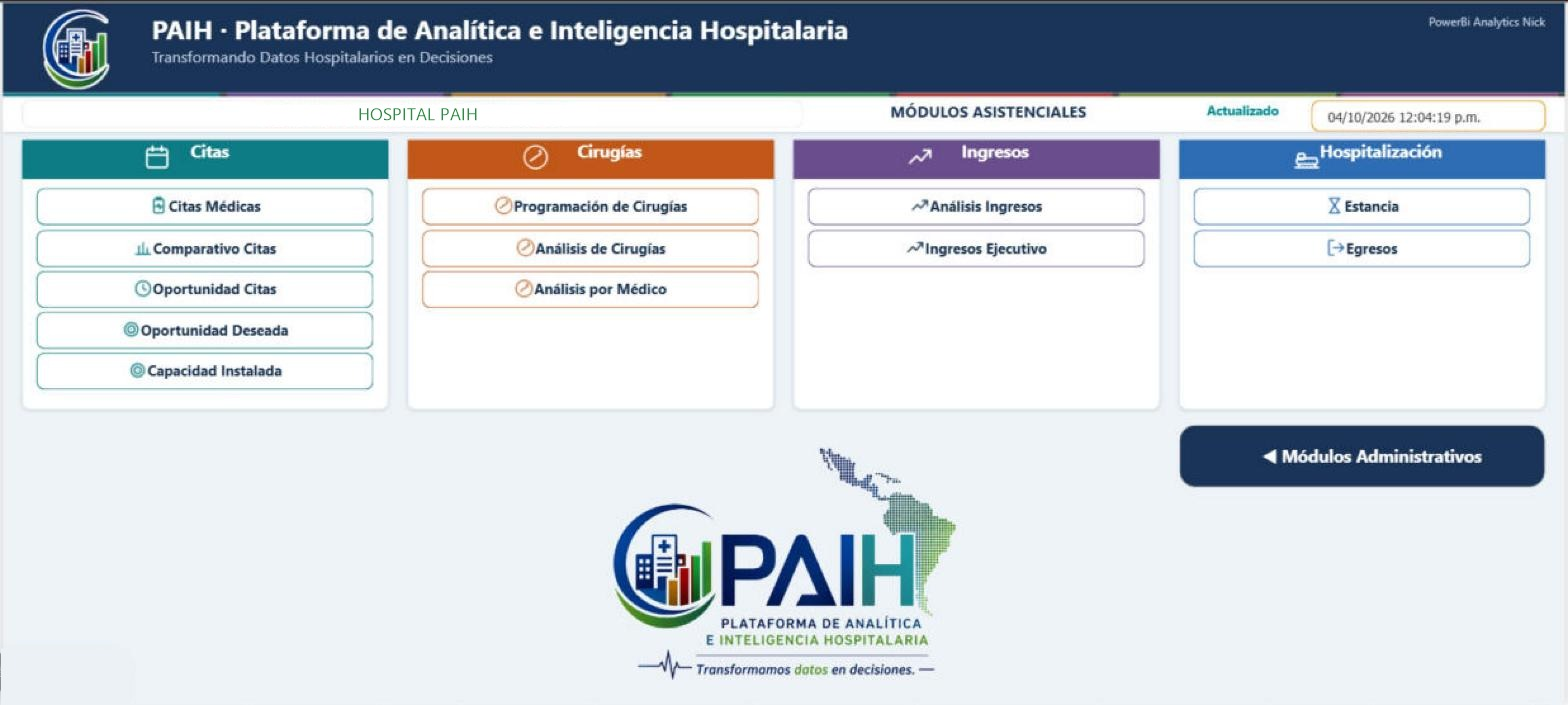
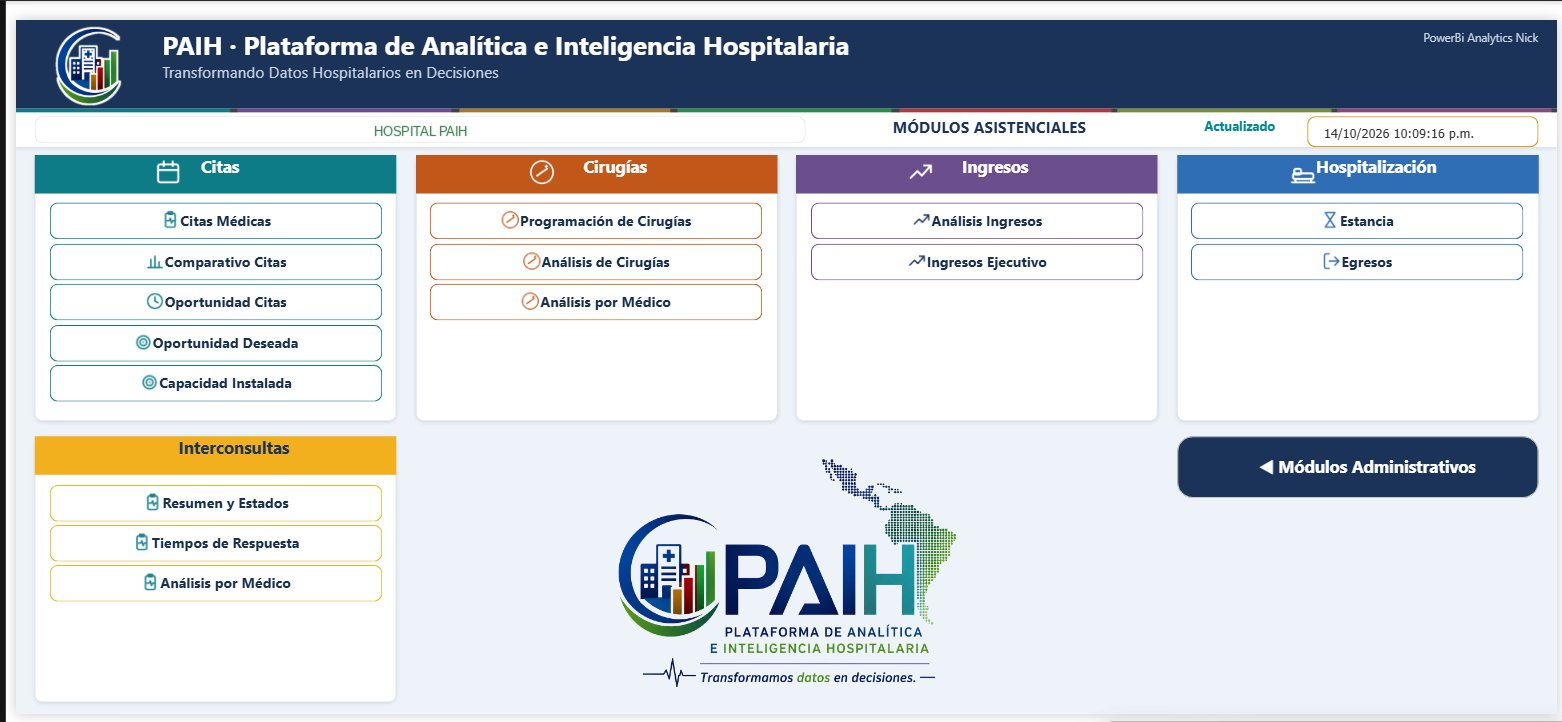
Nuevo módulo Interconsultas (3 lienzos) y 2 lienzos en pesos en Producción; menú asistencial actualizado
Claude-Session: https://claude.ai/code/session_01LZsR8SjRkSgseW9VD2TX7D

diff --git a/index.html b/index.html
@@ -366,6 +366,9 @@
   .lienzo-card--cartera .lienzo-head{background:#7A8C3E;}
   .lienzo-card--cartera .chip{background:rgba(122,140,62,0.11);color:#7A8C3E;}
   .lienzo-card--cartera .lienzo-item:hover{background:rgba(122,140,62,0.07);}
+  .lienzo-card--interconsultas .lienzo-head{background:#E0A21A;}
+  .lienzo-card--interconsultas .chip{background:rgba(224,162,26,0.14);color:#A87508;}
+  .lienzo-card--interconsultas .lienzo-item:hover{background:rgba(224,162,26,0.09);}
   .lienzo-card--produccion .lienzo-head{background:#B8426A;}
   .lienzo-card--produccion .chip{background:rgba(184,66,106,0.11);color:#B8426A;}
   .lienzo-card--produccion .lienzo-item:hover{background:rgba(184,66,106,0.07);}
@@ -660,7 +663,7 @@
       <div class="section-head">
         <span class="eyebrow">Suite PAIH</span>
         <h2>Un lienzo para cada decisión</h2>
-        <p>Once módulos activos y 37 lienzos de análisis, agrupados en módulos asistenciales y administrativos, cada uno enfocado en un proceso crítico de la operación hospitalaria — con menú unificado y tooltips explicativos en los gráficos.</p>
+        <p>Doce módulos activos y 42 lienzos de análisis, agrupados en módulos asistenciales y administrativos, cada uno enfocado en un proceso crítico de la operación hospitalaria — con menú unificado y tooltips explicativos en los gráficos.</p>
       </div>
 
       <div class="stories-bar" id="storiesBar"></div>
@@ -673,7 +676,7 @@
           <div class="nov-body">
             <span class="nov-tag">Nuevo</span>
             <h3>Menú dividido: asistencial y administrativo</h3>
-            <p>11 módulos y 37 lienzos en dos menús — 12 asistenciales y 25 administrativos — con un botón para pasar de uno a otro.</p>
+            <p>12 módulos y 42 lienzos en dos menús — 15 asistenciales y 27 administrativos — con un botón para pasar de uno a otro.</p>
             <button class="nov-btn" onclick="openLienzo('menu')">Ver los menús →</button>
           </div>
         </article>
@@ -689,13 +692,24 @@
           </div>
         </article>
         <article class="nov-tile">
+          <button class="nov-media" onclick="openLienzo('interconsultas_resumen')" aria-label="Ver el nuevo módulo de interconsultas">
+            <img src="img/lienzos/interconsultas_resumen.jpg" alt="Lienzo Interconsultas Resumen y Estados" loading="lazy">
+          </button>
+          <div class="nov-body">
+            <span class="nov-tag">Nuevo módulo</span>
+            <h3>Interconsultas: estados, tiempos y médicos</h3>
+            <p>Tres lienzos: cuántas interconsultas se solicitan y se responden, cuánto tarda cada especialidad en responder y qué médicos solicitan y responden.</p>
+            <button class="nov-btn" onclick="openLienzo('interconsultas_resumen')">Ver Interconsultas →</button>
+          </div>
+        </article>
+        <article class="nov-tile">
           <button class="nov-media" onclick="openLienzo('produccion_resumen')" aria-label="Ver el nuevo módulo de producción">
             <img src="img/lienzos/produccion_resumen.jpg" alt="Lienzo Producción Resumen" loading="lazy">
           </button>
           <div class="nov-body">
             <span class="nov-tag">Nuevo módulo</span>
             <h3>Producción por áreas de servicio</h3>
-            <p>Cuatro lienzos: qué se produce, en qué área de servicio, qué servicios y medicamentos lideran, qué queda sin RIPS y el detalle línea por línea.</p>
+            <p>Seis lienzos: qué se produce en unidades y en pesos, en qué área de servicio, qué servicios y medicamentos lideran, qué queda sin RIPS y el detalle línea por línea.</p>
             <button class="nov-btn" onclick="openLienzo('produccion_resumen')">Ver Producción →</button>
           </div>
         </article>
@@ -740,7 +754,7 @@
       <div class="modgroup" id="modulos-asistenciales">
         <div class="modgroup-head">
           <h3>Módulos Asistenciales</h3>
-          <p>Citas, Cirugías, Ingresos y Hospitalización · 12 lienzos</p>
+          <p>Citas, Cirugías, Ingresos, Hospitalización e Interconsultas · 15 lienzos</p>
         </div>
         <div class="lienzo-grid">
 
@@ -876,13 +890,46 @@
           </nav>
         </article>
 
+        <!-- INTERCONSULTAS -->
+        <article class="lienzo-card lienzo-card--interconsultas">
+          <div class="lienzo-head">
+            <span class="lienzo-icon">
+              <svg viewBox="0 0 24 24" fill="none" stroke="currentColor" stroke-width="1.8" stroke-linecap="round" stroke-linejoin="round"><rect x="5" y="4" width="14" height="17" rx="2"/><path d="M9 4V3h6v1"/><path d="M12 10v6M9 13h6"/></svg>
+            </span>
+            <h3>Interconsultas</h3>
+          </div>
+          <nav class="lienzo-list">
+            <button class="lienzo-item" onclick="openLienzo('interconsultas_resumen')">
+              <span class="chip"><svg viewBox="0 0 24 24" fill="none" stroke="currentColor" stroke-width="1.8" stroke-linecap="round" stroke-linejoin="round"><rect x="5" y="4" width="14" height="17" rx="2"/><path d="M9 4V3h6v1"/><path d="M12 10v6M9 13h6"/></svg></span>
+              <span class="lienzo-item-text">
+                <span class="t">Resumen y Estados <span class="new-tag">Nuevo</span></span>
+                <span class="d">Interconsultas solicitadas, con respuesta, cerradas y suspendidas: por estado, prioridad, especialidad, sede y área solicitante.</span>
+              </span>
+            </button>
+            <button class="lienzo-item" onclick="openLienzo('interconsultas_tiempos')">
+              <span class="chip"><svg viewBox="0 0 24 24" fill="none" stroke="currentColor" stroke-width="1.8" stroke-linecap="round" stroke-linejoin="round"><circle cx="12" cy="12" r="9"/><path d="M12 7v5l3 2"/></svg></span>
+              <span class="lienzo-item-text">
+                <span class="t">Tiempos de Respuesta <span class="new-tag">Nuevo</span></span>
+                <span class="d">Horas promedio de respuesta por especialidad, respuestas de más de 48 horas, pendientes y tendencia mensual.</span>
+              </span>
+            </button>
+            <button class="lienzo-item" onclick="openLienzo('interconsultas_medico')">
+              <span class="chip"><svg viewBox="0 0 24 24" fill="none" stroke="currentColor" stroke-width="1.8" stroke-linecap="round" stroke-linejoin="round"><circle cx="12" cy="8" r="4"/><path d="M4 21c0-4 4-6 8-6s8 2 8 6"/></svg></span>
+              <span class="lienzo-item-text">
+                <span class="t">Análisis por Médico <span class="new-tag">Nuevo</span></span>
+                <span class="d">Quién solicita y quién responde: interconsultas, urgentes, % con respuesta y horas de respuesta por médico.</span>
+              </span>
+            </button>
+          </nav>
+        </article>
+
         </div>
       </div>
 
       <div class="modgroup" id="modulos-administrativos">
         <div class="modgroup-head">
           <h3>Módulos Administrativos</h3>
-          <p>Cartera, Radicación, Contratos, Glosas, Facturación, Producción y Pasivo CxP · 25 lienzos</p>
+          <p>Cartera, Radicación, Contratos, Glosas, Facturación, Producción y Pasivo CxP · 27 lienzos</p>
         </div>
         <div class="lienzo-grid">
 
@@ -1074,11 +1121,25 @@
                 <span class="d">Unidades producidas por mes, tipo de ingreso, área de servicio, tipo de servicio y estado de facturación.</span>
               </span>
             </button>
+            <button class="lienzo-item" onclick="openLienzo('produccion_resumen_pesos')">
+              <span class="chip"><svg viewBox="0 0 24 24" fill="none" stroke="currentColor" stroke-width="1.8" stroke-linecap="round" stroke-linejoin="round"><rect x="3" y="7" width="18" height="13" rx="2"/><circle cx="12" cy="13.5" r="3.2"/><path d="M9 7l1.5-3h3L15 7"/></svg></span>
+              <span class="lienzo-item-text">
+                <span class="t">Producción Resumen $ <span class="new-tag">Nuevo</span></span>
+                <span class="d">El mismo resumen de producción expresado en pesos: valor total, con factura y sin factura, por tipo de ingreso, área y tipo de servicio.</span>
+              </span>
+            </button>
             <button class="lienzo-item" onclick="openLienzo('produccion_top10')">
               <span class="chip"><svg viewBox="0 0 24 24" fill="none" stroke="currentColor" stroke-width="1.8" stroke-linecap="round" stroke-linejoin="round"><line x1="7" y1="20" x2="7" y2="10"/><line x1="12" y1="20" x2="12" y2="6"/><line x1="17" y1="20" x2="17" y2="13"/></svg></span>
               <span class="lienzo-item-text">
                 <span class="t">Producción Top 10 <span class="new-tag">Nuevo</span></span>
                 <span class="d">Los 10 servicios IPS y los 10 medicamentos y suministros con más unidades, con valor entidad y paciente.</span>
+              </span>
+            </button>
+            <button class="lienzo-item" onclick="openLienzo('produccion_top10_pesos')">
+              <span class="chip"><svg viewBox="0 0 24 24" fill="none" stroke="currentColor" stroke-width="1.8" stroke-linecap="round" stroke-linejoin="round"><line x1="7" y1="20" x2="7" y2="10"/><line x1="12" y1="20" x2="12" y2="6"/><line x1="17" y1="20" x2="17" y2="13"/></svg></span>
+              <span class="lienzo-item-text">
+                <span class="t">Producción Top 10 $ <span class="new-tag">Nuevo</span></span>
+                <span class="d">Los 10 servicios, medicamentos y áreas de servicio que más valor producen, en pesos.</span>
               </span>
             </button>
             <button class="lienzo-item" onclick="openLienzo('produccion_rips')">
@@ -1421,7 +1482,12 @@
     pasivo_cuenta: {"modulo": "Pasivo CxP", "titulo": "Pasivo por Cuenta Contable", "img": "img/lienzos/pasivo_cuenta.jpg", "isNew": true, "sales": "El pasivo visto por cuenta contable: 31 cuentas con saldo, $93 mil millones vencidos (97,7%) y la cuenta de honorarios con el 30,6% del pasivo ($28.995 millones). Compara sin vencer contra vencido en el Top 10 de cuentas y detalla cada una por rango de edad, con su participación, número de documentos y terceros."},
     pasivo_origen: {"modulo": "Pasivo CxP", "titulo": "Pasivo por Origen / Tipo CxP", "img": "img/lienzos/pasivo_origen.jpg", "isNew": true, "sales": "De dónde viene el pasivo: cuentas por pagar concentra el 90,7% ($85.999 millones), inventarios el 9,3% y activos fijos una fracción mínima. Participación por origen, sin vencer contra vencido y evolución mensual, más una tabla por origen y rango de edad con documentos y terceros."},
     pasivo_anticipos: {"modulo": "Pasivo CxP", "titulo": "Pasivo Anticipos", "img": "img/lienzos/pasivo_anticipos.jpg", "isNew": true, "sales": "Anticipos entregados que aún no se han aplicado frente a lo que se debe: 6 terceros con anticipo y 8 documentos por 2,6 millones, es decir 0,0% del pasivo de 95 mil millones. Compara por tercero lo que se debe, el anticipo y el saldo neto, muestra los anticipos por cuenta contable (avances para viáticos y gastos de viaje) y detalla cada tercero con su % cubierto. Un saldo negativo significa que el anticipo supera la deuda, a favor del hospital."},
-    menu: {"modulo": "Nuevo menú", "titulo": "Menú de navegación PAIH", "img": "img/lienzos/menu_asistenciales.jpg", "alt": {"img": "img/lienzos/menu_administrativos.jpg", "label": "Administrativos", "kind": "view"}, "mainLabel": "Asistenciales", "isNew": true, "sales": "Un solo punto de entrada para todo PAIH, ahora dividido en dos menús: Módulos Asistenciales (Citas, Cirugías, Ingresos y Hospitalización: 12 lienzos) y Módulos Administrativos (Cartera, Radicación, Contratos, Glosas y Facturación: 16 lienzos). Un botón en cada menú permite pasar de uno a otro; cada lienzo tiene su navegación entre lienzos del mismo módulo y su regreso a Inicio, y los gráficos incluyen tooltips (i) con su Objetivo y su Lectura."},
+    interconsultas_resumen: {"modulo": "Interconsultas", "titulo": "Interconsultas Resumen y Estados", "img": "img/lienzos/interconsultas_resumen.jpg", "isNew": true, "sales": "408 interconsultas solicitadas en el mes: 187 con respuesta (45,8%) y 220 cerradas (53,9%), 147 urgentes (36,0%) y una suspendida. Muestra la tendencia mensual y las divide por estado, prioridad, especialidad solicitante y rango de tiempo de respuesta, con el Top 10 de servicios, especialidades, sedes y áreas que más solicitan, y el detalle consecutivo por consecutivo. Respondidas en 24 horas o menos: 77,2%, con un promedio de 17,2 horas."},
+    interconsultas_tiempos: {"modulo": "Interconsultas", "titulo": "Interconsultas Tiempos de Respuesta", "img": "img/lienzos/interconsultas_tiempos.jpg", "isNew": true, "sales": "Cuánto tarda cada especialidad en responder: en el año, 2.858 interconsultas solicitadas, 1.372 con respuesta y 1.476 cerradas, con un promedio de 21,1 horas de respuesta (18,7 en las urgentes) y 73,7% respondidas en 24 horas o menos. Muestra las horas promedio por especialidad, la tendencia mensual, las pendientes, las cerradas, las respuestas de más de 48 horas y el % de suspendidas por especialidad."},
+    interconsultas_medico: {"modulo": "Interconsultas", "titulo": "Interconsultas Análisis por Médico", "img": "img/lienzos/interconsultas_medico.jpg", "isNew": true, "sales": "Quién solicita y quién responde: 408 interconsultas del mes, 28 médicos que responden, 17,2 horas promedio de respuesta y 77,2% respondidas en 24 horas o menos. Ordena a los médicos por interconsultas solicitadas, urgentes, % con respuesta y cerradas, mide las horas promedio de quien responde y detalla cada médico solicitante con sus interconsultas pendientes, respondidas y cerradas."},
+    produccion_resumen_pesos: {"modulo": "Producción", "titulo": "Producción Resumen en pesos ($)", "img": "img/lienzos/produccion_resumen_pesos.jpg", "isNew": true, "sales": "El resumen de producción expresado en pesos: $11.146 millones de valor total estimado en el mes, $11.112 millones con factura y $34 millones sin factura (99,7% facturado). Separa $10.286 millones en servicios, $860 millones en medicamentos y $195 millones en oxígeno, y los abre por tipo de ingreso (urgencias lidera con $7.500 millones), por área de servicio, por tipo de servicio y por estado de facturación."},
+    produccion_top10_pesos: {"modulo": "Producción", "titulo": "Producción Top 10 en pesos ($)", "img": "img/lienzos/produccion_top10_pesos.jpg", "isNew": true, "sales": "Qué genera más valor: los 10 servicios IPS, los 10 medicamentos y suministros y las 10 áreas de servicio con mayor valor en pesos. Hospitalización estancia general lidera las áreas con $1.673 millones y la internación de adultos de complejidad mediana lidera los servicios con $1.515 millones. Arriba, el valor total ($11 mil millones), con factura, sin factura ($751 millones), entidad y paciente."},
+    menu: {"modulo": "Nuevo menú", "titulo": "Menú de navegación PAIH", "img": "img/lienzos/menu_asistenciales.jpg", "alt": {"img": "img/lienzos/menu_administrativos.jpg", "label": "Administrativos", "kind": "view"}, "mainLabel": "Asistenciales", "isNew": true, "sales": "Un solo punto de entrada para todo PAIH, ahora dividido en dos menús: Módulos Asistenciales (Citas, Cirugías, Ingresos, Hospitalización e Interconsultas: 15 lienzos) y Módulos Administrativos (Cartera, Radicación, Contratos, Glosas, Facturación, Producción y Pasivo CxP: 27 lienzos). Un botón en cada menú permite pasar de uno a otro; cada lienzo tiene su navegación entre lienzos del mismo módulo y su regreso a Inicio, y los gráficos incluyen tooltips (i) con su Objetivo y su Lectura."},
   };
 
   let lienzoCur = null;
@@ -1477,9 +1543,16 @@ const MODULES = [
       { img: "img/lienzos/menu_asistenciales.jpg" },
       { img: "img/lienzos/menu_administrativos.jpg" }
     ] },
+    { label: "Interconsultas", color: "#E0A21A", icon: `<svg viewBox="0 0 24 24" fill="none" stroke="currentColor" stroke-width="1.8" stroke-linecap="round" stroke-linejoin="round"><rect x="5" y="4" width="14" height="17" rx="2"/><path d="M9 4V3h6v1"/><path d="M12 10v6M9 13h6"/></svg>`, isNew: true, slides: [
+      { img: "img/lienzos/interconsultas_resumen.jpg" },
+      { img: "img/lienzos/interconsultas_tiempos.jpg" },
+      { img: "img/lienzos/interconsultas_medico.jpg" }
+    ] },
     { label: "Producción", color: "#B8426A", icon: `<svg viewBox="0 0 24 24" fill="none" stroke="currentColor" stroke-width="1.8" stroke-linecap="round" stroke-linejoin="round"><path d="M4 21V10M4 10l4-5 4 3 5-6 3 3"/><path d="M20 5v6h-6"/></svg>`, isNew: true, slides: [
       { img: "img/lienzos/produccion_resumen.jpg" },
+      { img: "img/lienzos/produccion_resumen_pesos.jpg" },
       { img: "img/lienzos/produccion_top10.jpg" },
+      { img: "img/lienzos/produccion_top10_pesos.jpg" },
       { img: "img/lienzos/produccion_rips.jpg" },
       { img: "img/lienzos/produccion_detalle.jpg" }
     ] },

diff --git a/README.md b/README.md
@@ -17,7 +17,7 @@ Este repositorio contiene el sitio web comercial de PAIH: una landing page de un
 
 ## Módulos activos y lienzos
 
-**Módulos Asistenciales** (12 lienzos)
+**Módulos Asistenciales** (15 lienzos)
 
 | Módulo | Lienzos |
 |---|---|
@@ -25,8 +25,9 @@ Este repositorio contiene el sitio web comercial de PAIH: una landing page de un
 | Cirugías | **Programación de Cirugías**, **Análisis de Cirugías**, **Análisis por Médico** |
 | Ingresos | Análisis Ingresos, **Ingresos Ejecutivo** |
 | Hospitalización | Estancia, Egresos |
+| Interconsultas | **Resumen y Estados**, **Tiempos de Respuesta**, **Análisis por Médico** |
 
-**Módulos Administrativos** (25 lienzos)
+**Módulos Administrativos** (27 lienzos)
 
 | Módulo | Lienzos |
 |---|---|
@@ -35,10 +36,10 @@ Este repositorio contiene el sitio web comercial de PAIH: una landing page de un
 | Contratos | Contratos IPS, PBS |
 | Glosas | Semáforo Glosas, Glosas, Trámites Cosecha, Gestión Trámites |
 | Facturación | Facturación, Snapshot Facturación, **Facturación Ejecutiva** |
-| Producción | **Producción Resumen**, **Producción Top 10**, **Producción RIPS**, **Producción Detalle** |
+| Producción | **Producción Resumen**, **Producción Resumen $**, **Producción Top 10**, **Producción Top 10 $**, **Producción RIPS**, **Producción Detalle** |
 | Pasivo CxP | **Pasivo por Edades**, **Pasivo por Tercero / Proveedor**, **Pasivo por Cuenta Contable**, **Pasivo por Origen / Tipo CxP**, **Pasivo Anticipos** |
 
-En total: **11 módulos y 37 lienzos** publicados (en negrita, los más recientes). 23 de ellos incluyen **tooltips explicativos (i)**: cada gráfico indica su Objetivo y cómo hacer su Lectura. La estructura sigue el menú del reporte, dividido en *Módulos Asistenciales* y *Módulos Administrativos*, cada uno con un botón para pasar al otro.
+En total: **12 módulos y 42 lienzos** publicados (en negrita, los más recientes). 23 de ellos incluyen **tooltips explicativos (i)**: cada gráfico indica su Objetivo y cómo hacer su Lectura. La estructura sigue el menú del reporte, dividido en *Módulos Asistenciales* y *Módulos Administrativos*, cada uno con un botón para pasar al otro.
 
 ### En roadmap (aún no publicados en el sitio)
 
